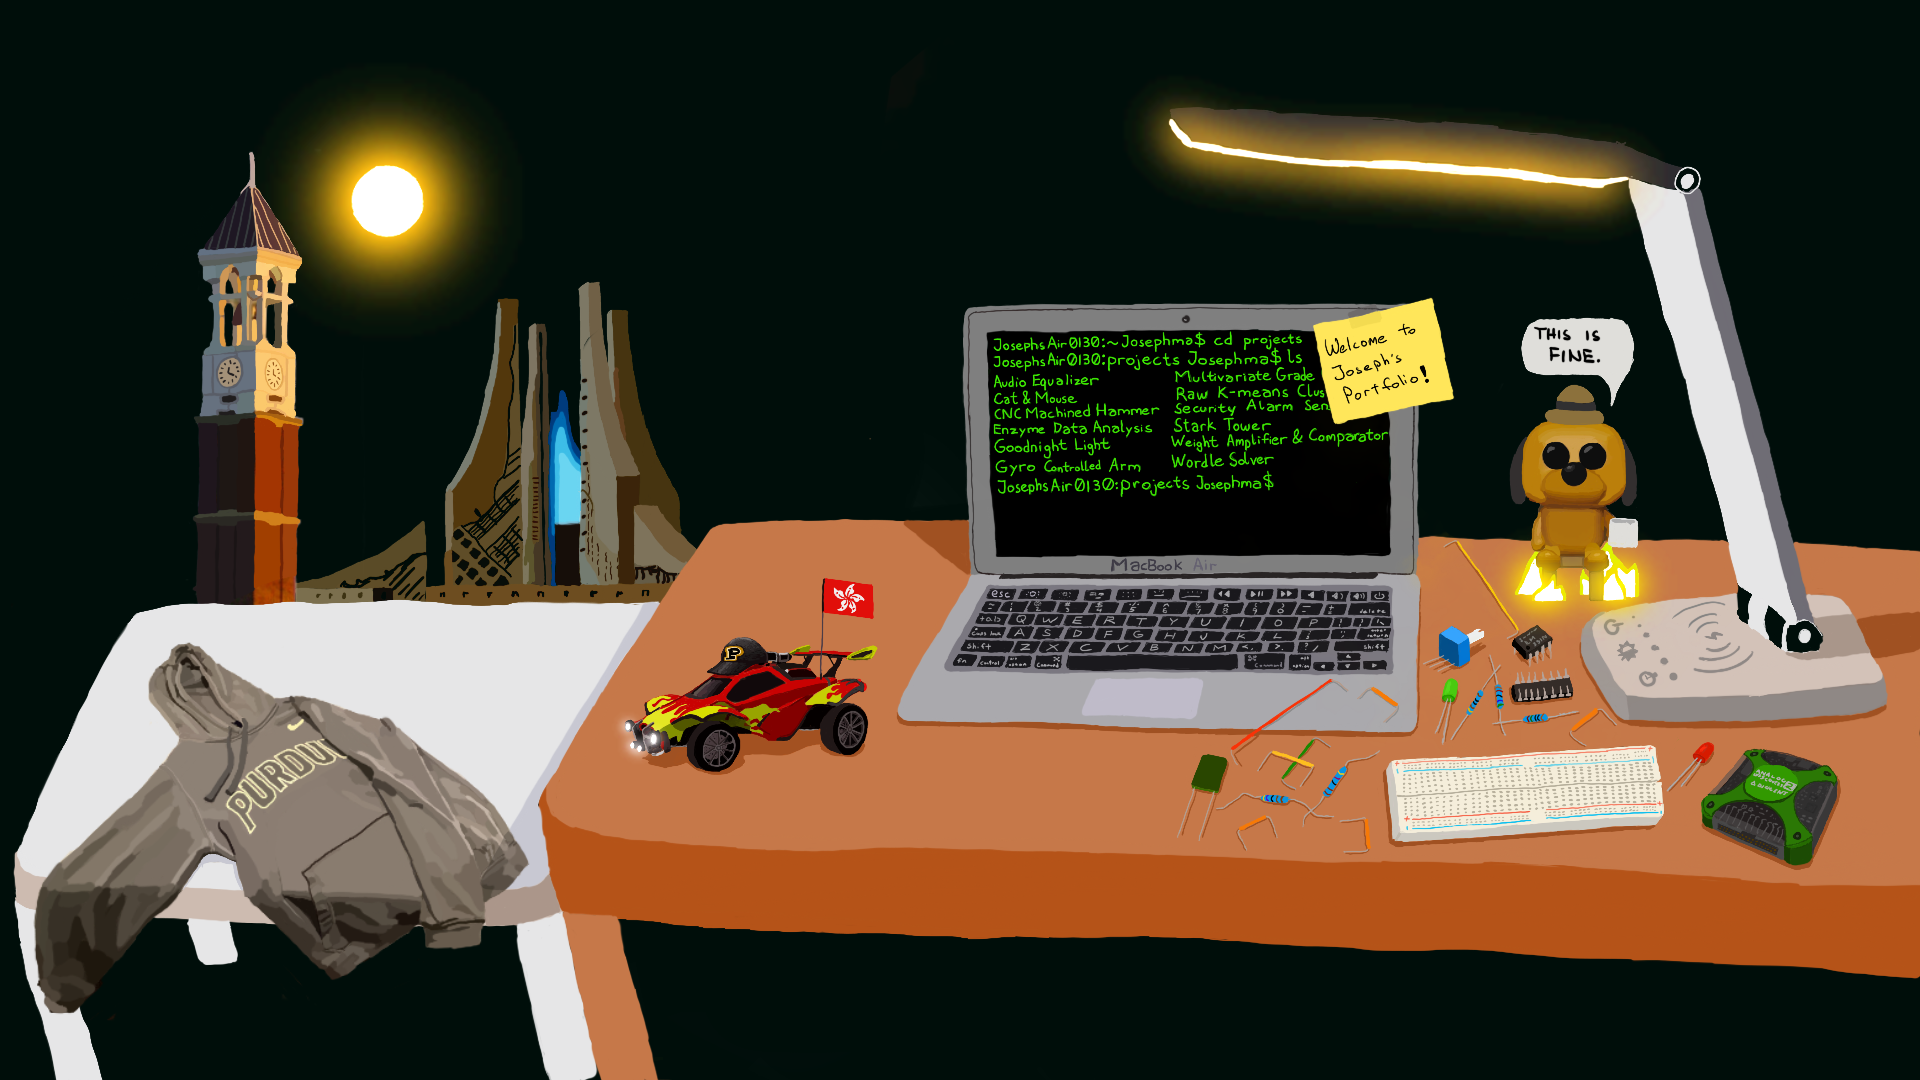
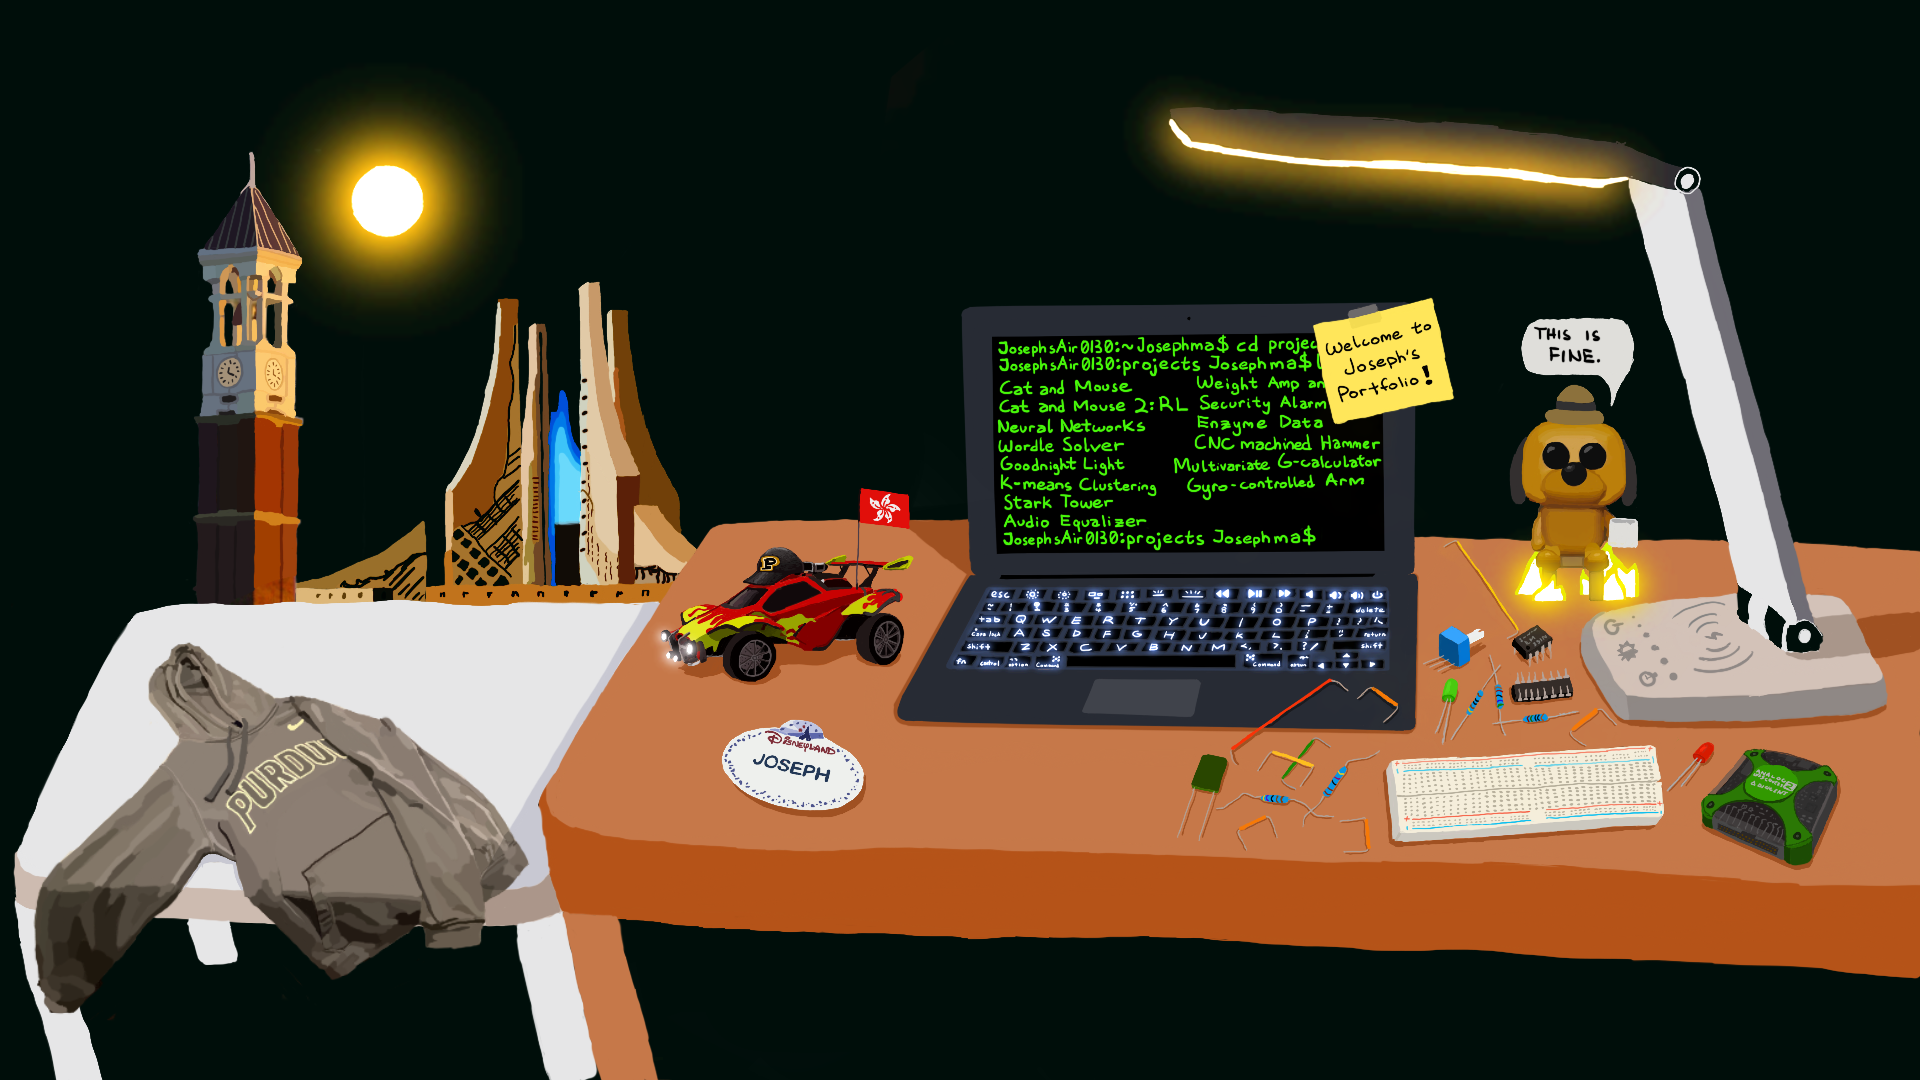
spring 24

Changed region(s): [[0.1562, 0.2444, 0.75, 0.7639]]

diff --git a/index.html b/index.html
@@ -53,7 +53,8 @@
 					<!-- <li class = "summer22"><a href = "https://joseph-ma.com/">Summer 22'</a></li><br> -->
 					<li class = "fall22"><a href = "https://joseph-ma.com/">Fall 22'</a></li><br>
 					<li class = "spring23"><a href = "https://joseph-ma.com/">Spring 23'</a></li><br>
-					<li class = "fall23"><a href = "https://joseph-ma.com/">Fall 23'</a></li>
+					<li class = "fall23"><a href = "https://joseph-ma.com/">Fall 23'</a></li><br>
+					<li class = "spring24"><a href = "https://joseph-ma.com/">Spring 24'</a></li>
 				</ul>
 			</div>
 			<div class = "logo"><a href="https://joseph-ma.com/">Joseph's <span>Portfolio</a></div>
@@ -99,11 +100,12 @@
 							<!-- <li class = "summer22"><a href = "https://joseph-ma.com/">Summer 22'</a></li><br> -->
 							<li class = "fall22"><a href = "https://joseph-ma.com/">Fall 22'</a></li><br>
 							<li class = "spring23"><a href = "https://joseph-ma.com/">Spring 23'</a></li><br>
-							<li class = "fall23"><a href = "https://joseph-ma.com/">Fall 23'</a></li>
+							<li class = "fall23"><a href = "https://joseph-ma.com/">Fall 23'</a></li><br>
+							<li class = "spring24"><a href = "https://joseph-ma.com/">Spring 24'</a></li>
 						</ul>
 						<script>
 							//MEMORY SELECTOR
-							const my_memories = ["fall22", "spring23", "fall23"]
+							const my_memories = ["fall22", "spring23", "fall23", "spring24"]
 							const memory_list = new Array(my_memories.length)
 
 							for(let i = 0; i < my_memories.length; i++) {
@@ -341,7 +343,7 @@
                     <div class="title">EMBEDDED SYSTEMS</div>
                     <div class="topic">Cat and Mouse</div>
                     <div class="des">
-                        A game boy programmed in C using the STM32 ARM microcontroller. Utilized SPI, ADC, DAC and GPIO for hardware operation. Cat was programmed to autonomously chase the mouse. Design was finalized with a PCB.
+                        A game boy programmed in C using the STM32 ARM microcontroller. Utilized SPI, ADC, DAC and GPIO for hardware operation. Cat was programmed to autonomously chase the mouse using Dijkstra's algorithm. Design was finalized with a PCB.
                     </div>
                     <button class="seeMore">VIEW PROJECT</button>
                 </div>
@@ -363,7 +365,7 @@
                     <div class="title">MACHINE LEARNING</div>
                     <div class="topic">Cat and Mouse 2: Reinforcement Learning</div>
                     <div class="des">
-                        This project brings the Cat and Mouse project to another level by training the cat and mouse with reinforcement learning to chase and evade each other. Initially, the cat uses Dijkstra's algorithm, but both are later trained with Q-learning. Users can design custom maps and train mice against an upgraded cat equipped with A* pathfinding.
+                        This project brings the Cat and Mouse project to another level by training the cat and mouse with reinforcement learning to interact against each other. Initially, the cat uses Dijkstra's algorithm, but both are later trained with Q-learning. Users can design custom maps and train mice against an upgraded cat equipped with A* pathfinding.
                     </div>
                     <button class="seeMore">VIEW PROJECT</button>
                 </div>
